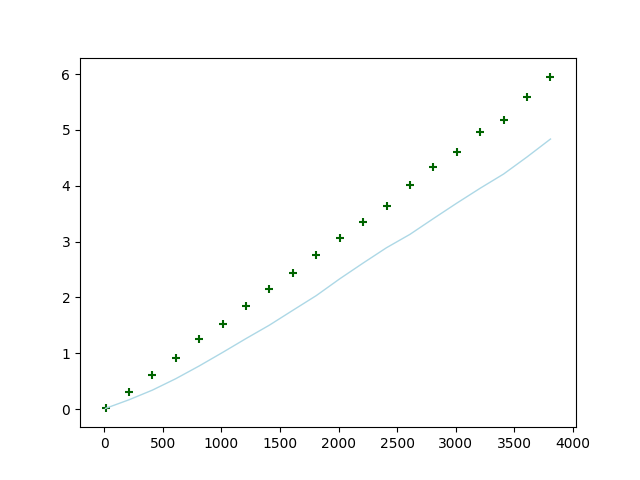
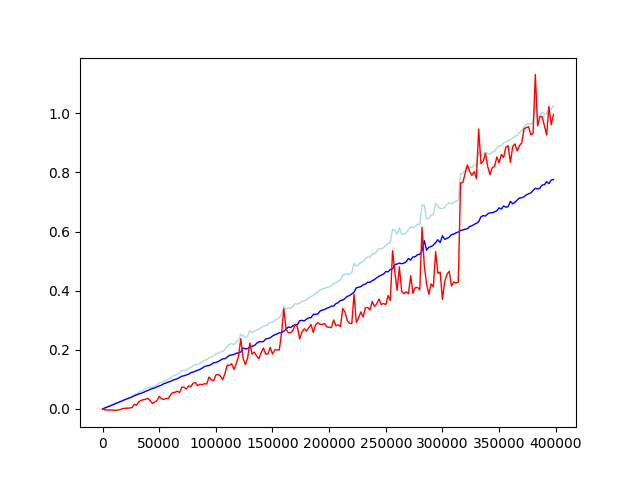
Сделал 1-2 задачкм к уроку 4. Увеличичл множество n

diff --git a/Lesson_4/2.py b/Lesson_4/2.py
@@ -42,42 +42,45 @@ def apply_the_sundarama_method(n):
     return lst
 
 
-def draw_plt(x, y_er, y_su):
+def draw_plt(x, y_er, y_su, delta):
     fig = plt.figure(figsize=plt.figaspect(0.75))
     ax = fig.add_subplot(111)
 
     # ax.plot(x, y_er, color='lightblue', linewidth=3)
     ax.plot(x, y_su, color='lightblue', linewidth=1)
-    ax.scatter(x, y_er, color='darkgreen', marker='+')
-
+    ax.plot(x, y_er, color='blue', linewidth=1)
+    ax.plot(x, delta, color='red', linewidth=1)
     plt.savefig('2_resheto.png')
     plt.show()
 
 
 def main():
     N_BEGIN = 10
-    N_END = 4000
-    N_STEP = 200
+    N_END = 400000
+    N_STEP = 2000
 
     x = []
     y_er = []
     y_su = []
+    delta = []
 
     for i in range(N_BEGIN, N_END, N_STEP):
         time_er = timeit.timeit(
             f'apply_the_eratosthenes_method({i})',
-            number=10000,
+            number=10,
             globals=globals())
         time_su = timeit.timeit(
             f'apply_the_sundarama_method({i})',
-            number=10000,
+            number=10,
             globals=globals())
         x.append(i)
         y_er.append(time_er)
         y_su.append(time_su)
-        print(f'i = {i}, Er -> {time_er:.5f} Su -> {time_su:.5f}')
+        d = (time_su - time_er)
+        delta.append(d * 4)
+        print(f'i = {i:5d}, Er -> {time_er:.5f} Su -> {time_su:.5f} delta -> {d:.5f}')
 
-    draw_plt(x, y_er, y_su)
+    draw_plt(x, y_er, y_su, delta)
 
 
 if __name__ == "__main__":
